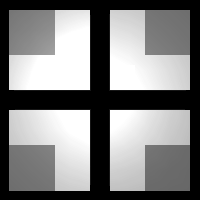
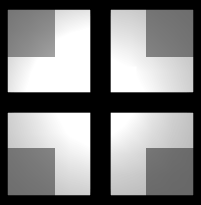
add test and support for odd-sized textures

diff --git a/mujoco_py/tests/test_modder.py b/mujoco_py/tests/test_modder.py
@@ -6,10 +6,10 @@ import numpy as np
 BASIC_MODEL_XML = """
 <mujoco>
     <asset>
-        <texture name="t1" width="32" height="32" type="2d" builtin="flat" />
-        <texture name="t2" width="32" height="32" type="2d" builtin="flat" />
-        <texture name="t3" width="32" height="32" type="2d" builtin="flat" />
-        <texture name="t4" width="32" height="32" type="2d" builtin="flat" />
+        <texture name="t1" width="33" height="36" type="2d" builtin="flat" />
+        <texture name="t2" width="34" height="39" type="2d" builtin="flat" />
+        <texture name="t3" width="31" height="37" type="2d" builtin="flat" />
+        <texture name="t4" width="38" height="34" type="2d" builtin="flat" />
         <material name="m1" texture="t1" />
         <material name="m2" texture="t2" />
         <material name="m3" texture="t3" />
@@ -37,7 +37,7 @@ def test_textures():
     sim = MjSim(model)
     sim.forward()
 
-    compare_imgs(sim.render(200, 200, camera_name="topcam"),
+    compare_imgs(sim.render(201, 205, camera_name="topcam"),
                  'test_textures.premod.png')
 
     random_state = np.random.RandomState(0)
@@ -49,28 +49,28 @@ def test_textures():
     modder.set_rgb('g2', (0, 255, 0))
     modder.set_rgb('g3', (0, 0, 255))
     modder.set_rgb('g4', (255, 0, 255))
-    compare_imgs(sim.render(200, 200, camera_name="topcam"),
+    compare_imgs(sim.render(201, 205, camera_name="topcam"),
                  'test_textures.rgb.png')
 
     modder.set_checker('g1', (255, 0, 0), (0, 255, 0))
     modder.set_gradient('g2', (0, 255, 0), (0, 0, 255), vertical=True)
     modder.set_gradient('g3', (255, 255, 0), (0, 0, 255), vertical=False)
     modder.set_noise('g4', (0, 0, 255), (255, 0, 0), 0.1)
-    compare_imgs(sim.render(200, 200, camera_name="topcam"),
+    compare_imgs(sim.render(201, 205, camera_name="topcam"),
                  'test_textures.variety.png')
 
     modder.rand_checker('g1')
     modder.rand_gradient('g2')
     modder.rand_noise('g3')
     modder.rand_rgb('g4')
-    compare_imgs(sim.render(200, 200, camera_name="topcam"),
+    compare_imgs(sim.render(201, 205, camera_name="topcam"),
                  'test_textures.rand_specific.png')
 
     modder.rand_all('g1')
     modder.rand_all('g2')
     modder.rand_all('g3')
     modder.rand_all('g4')
-    compare_imgs(sim.render(200, 200, camera_name="topcam"),
+    compare_imgs(sim.render(201, 205, camera_name="topcam"),
                  'test_textures.rand_all.png')
 
     modder.rand_checker('g1')
@@ -82,7 +82,7 @@ def test_textures():
     mat_modder.rand_texrepeat('g2')
     mat_modder.rand_texrepeat('g3')
     mat_modder.rand_texrepeat('g4')
-    compare_imgs(sim.render(200, 200, camera_name="topcam"),
+    compare_imgs(sim.render(201, 205, camera_name="topcam"),
                  'test_textures.rand_texrepeat.png')
 
 @requires_rendering
@@ -91,7 +91,7 @@ def test_materials():
     sim = MjSim(model)
     sim.forward()
 
-    compare_imgs(sim.render(200, 200, camera_name="topcam"),
+    compare_imgs(sim.render(201, 205, camera_name="topcam"),
                  'test_materials.premod.png')
 
     random_state = np.random.RandomState(0)
@@ -100,11 +100,11 @@ def test_materials():
     modder.set_specularity('g1', 1.0)
     modder.set_reflectance('g2', 1.0)
     modder.set_shininess('g3', 1.0)
-    compare_imgs(sim.render(200, 200, camera_name="topcam"),
+    compare_imgs(sim.render(201, 205, camera_name="topcam"),
                  'test_materials.props.png')
 
     modder.rand_all('g4')
-    compare_imgs(sim.render(200, 200, camera_name="topcam"),
+    compare_imgs(sim.render(201, 205, camera_name="topcam"),
                  'test_materials.rand_all.png')
 
 @requires_rendering
@@ -134,7 +134,7 @@ def test_multiple_sims():
         for j in range(2):
             modder.rand_checker('g1')
             compare_imgs(
-                sim.render(200, 200, camera_name="topcam"),
+                sim.render(201, 205, camera_name="topcam"),
                 'test_multiple_sims.loop%d_%d.png' % (i, j))
 
 
@@ -169,5 +169,5 @@ def test_resetting():
         modder = TextureModder(sim, random_state=random_state)
         for j in range(2):
             modder.rand_checker('g1')
-            compare_imgs(sim.render(200, 200, camera_name="topcam"),
+            compare_imgs(sim.render(201, 205, camera_name="topcam"),
                          'test_resetting.loop%d_%d.png' % (i, j))

diff --git a/mujoco_py/modder.py b/mujoco_py/modder.py
@@ -417,10 +417,10 @@ class TextureModder(BaseModder):
             self._skybox_checker_mat = None
 
     def _make_checker_matrices(self, h, w):
-        re = np.r_[(w // 2) * [0, 1]]
-        ro = np.r_[(w // 2) * [1, 0]]
-        cbd1 = np.expand_dims(np.row_stack((h // 2) * [re, ro]), -1)
-        cbd2 = np.expand_dims(np.row_stack((h // 2) * [ro, re]), -1)
+        re = np.r_[((w + 1) // 2) * [0, 1]]
+        ro = np.r_[((w + 1) // 2) * [1, 0]]
+        cbd1 = np.expand_dims(np.row_stack(((h + 1) // 2) * [re, ro]), -1)[:h, :w]
+        cbd2 = np.expand_dims(np.row_stack(((h + 1) // 2) * [ro, re]), -1)[:h, :w]
         return cbd1, cbd2
 
 
